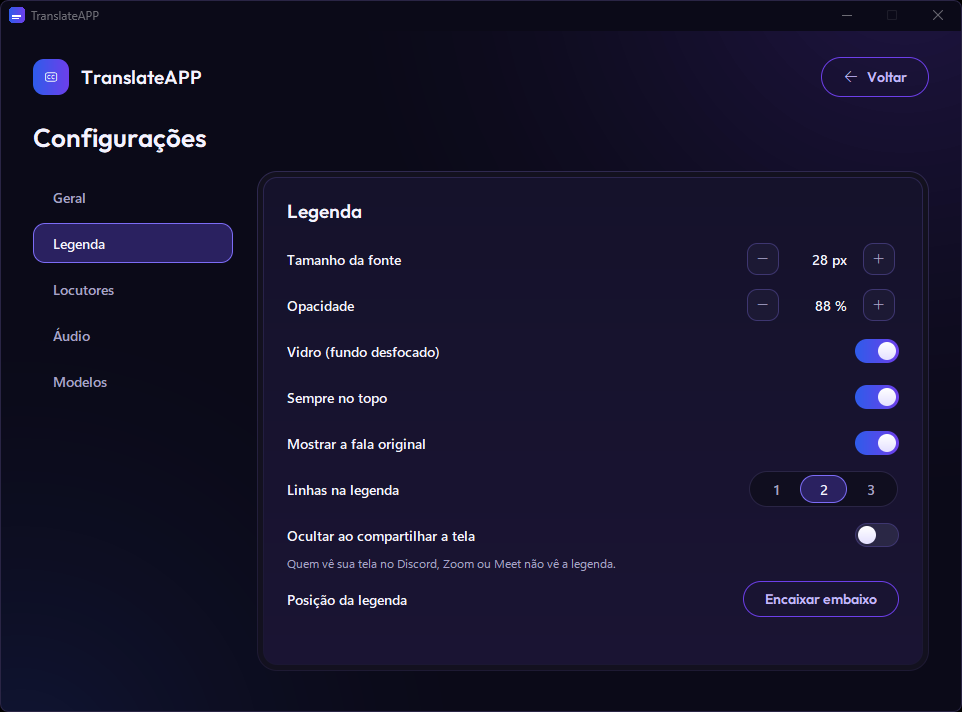
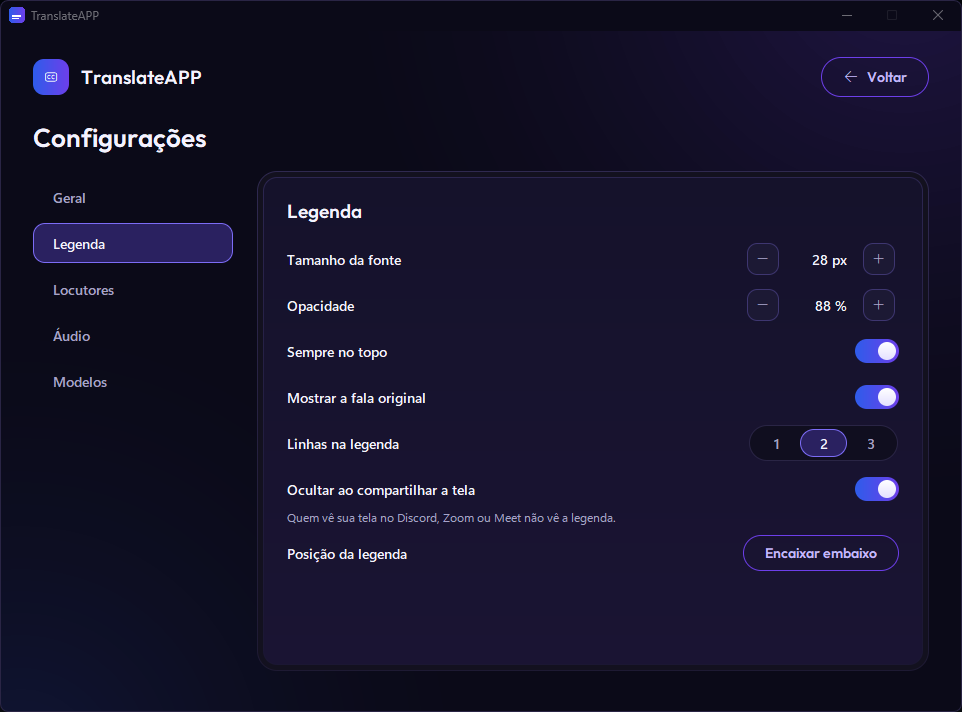
docs: print novo de Configurações (sem o vidro) nos READMEs

diff --git a/README.md b/README.md
@@ -124,6 +124,8 @@ desligue em Configurações › Legenda › **Ocultar ao compartilhar a tela**.
 
 Botão da engrenagem na janela principal (ao lado do seletor **EN / PT**, que troca o idioma do app na hora).
 
+![Configurações › Legenda](docs/ui-settings.png)
+
 - **Geral:** idioma do app e **Rever tutorial**.
 - **Legenda:** tamanho da fonte, opacidade, sempre no topo, mostrar a fala original, linhas na legenda (1 a 3), ocultar
   ao compartilhar a tela e **Encaixar embaixo**.

diff --git a/README.en.md b/README.en.md
@@ -128,6 +128,8 @@ screenshots either). To show them, turn off Settings › Subtitles › **Hide wh
 
 Gear button in the main window (next to the **EN / PT** switch, which changes the app language right away).
 
+![Settings › Subtitles](docs/ui-settings.png)
+
 - **General:** app language and **Replay tutorial**.
 - **Subtitles:** font size, opacity, always on top, show original speech, subtitle lines (1 to 3), hide when sharing the
   screen and **Snap to bottom**.
